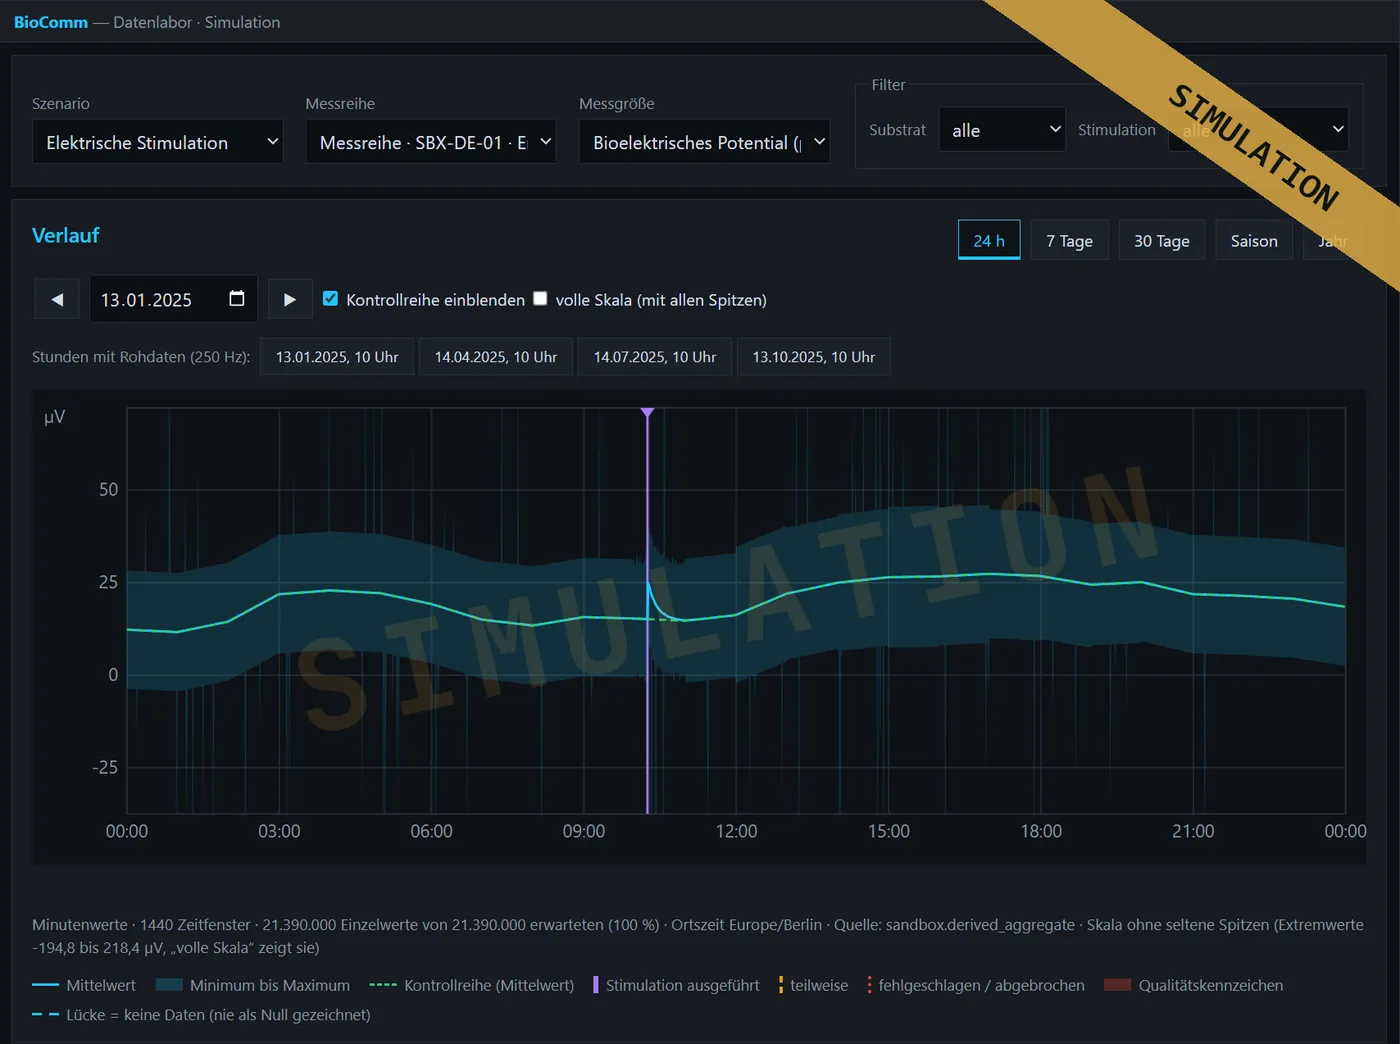
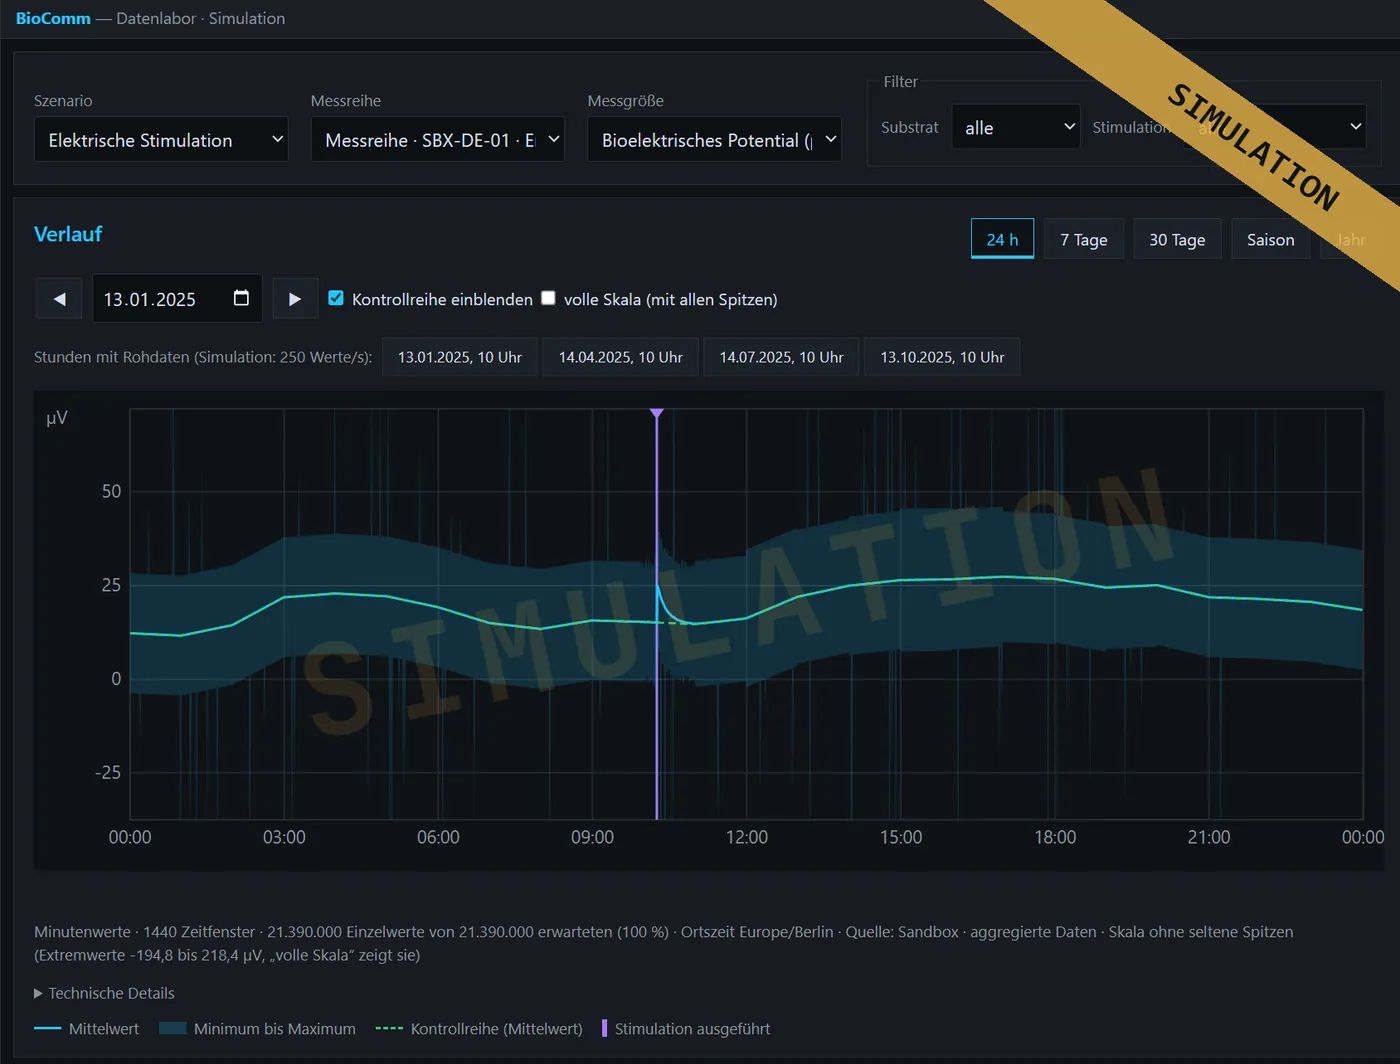
Datenlabor: Review-Punkte (250 Hz als Simulationswert, Quelle, Legende)
- 250 Hz ueberall als Simulationsaufloesung gekennzeichnet, mit Hinweis auf
  den Architektur-Zielwert von bis zu 1000 Werten/s je Messkanal
  (Dashboard + Erklaerseite, 5 Sprachen)
- sichtbare Quelle "Sandbox · aggregierte Daten"/"Rohdaten"; Tabellennamen,
  Kodierung, Kompression und Kalibrierung unter "Technische Details"
  (Roh-API liefert dafuer die Herkunft aus dem Messkanal mit)
- Legende zeigt nur, was im Diagramm vorkommt (Kontrollreihe nur wenn
  eingeblendet, Stimulationszustaende, Qualitaet, Luecken)
- Fix: [hidden] gewann nicht gegen display:flex (Legende, Rohdatenzeile,
  Ereignistabelle auf dem Handy)
- Vorschaubild neu aufgenommen

diff --git a/openmyconet_server/app/static/datenlabor.js b/openmyconet_server/app/static/datenlabor.js
@@ -400,7 +400,9 @@
     var raster = RASTER[res.aufloesung];
     var alle = P.concat(K);
     $('dl-meta').textContent = '';
+    $('dl-technik').textContent = '';
     if (!P.length) {
+      legende({});
       box.textContent = '';
       var leer = document.createElement('p');
       leer.className = 'dl-leer-chart';
@@ -467,14 +469,37 @@
     }
     ablesen(f, P, K, res, tz);
 
+    var zustaende = {};
+    res.stimulationen.forEach(function (s) {
+      var t = s.start || s.versuch || s.geplant;
+      if (t === null || t < zr[0] || t > zr[1]) return;
+      zustaende[s.zustand === 'EXECUTED' ? 'ok' : (s.zustand === 'PARTIAL' ? 'teil' : 'fehl')] = true;
+    });
+    legende({
+      mittel: true, band: true, kontrolle: K.length > 0, ok: zustaende.ok, teil: zustaende.teil, fehl: zustaende.fehl,
+      qual: res.qualitaet.length > 0,
+      luecke: abschnitte(P, raster, tf).length > 1
+    });
+    $('dl-technik').textContent = 'Tabelle sandbox.derived_aggregate · Auflösung ' + res.aufloesung +
+      (res.aufloesung === '1d' ? ' (zur Anzeige aus 1h verdichtet)' : '') + ' · Messreihe ' + r.code +
+      ' · Messgröße ' + res.kanal + ' · Ereignisse aus sandbox.stimulation und sandbox.quality_annotation' +
+      (K.length ? ' · Kontrollreihe ' + (kontrollReihe() || {}).code : '');
+
     var n = P.reduce(function (a, p) { return a + p[5]; }, 0);
     var nErw = P.reduce(function (a, p) { return a + (p[6] || 0); }, 0);
     var aufl = { '1min': 'Minutenwerte', '1h': 'Stundenwerte', '1d': 'Tageswerte (aus Stundenwerten)' }[res.aufloesung];
     $('dl-meta').textContent = aufl + ' · ' + P.length + ' Zeitfenster · ' + zahl(n, 0) + ' Einzelwerte' +
       (nErw ? ' von ' + zahl(nErw, 0) + ' erwarteten (' + zahl(n / nErw * 100, 1) + ' %)' : '') +
-      ' · Ortszeit ' + tz + ' · Quelle: sandbox.derived_aggregate' +
+      ' · Ortszeit ' + tz + ' · Quelle: Sandbox · aggregierte Daten' +
       (sk.gekappt ? ' · Skala ohne seltene Spitzen (Extremwerte ' + zahl(sk.echtMin, 1) + ' bis ' + zahl(sk.echtMax, 1) + ' ' +
         res.einheit + ', „volle Skala“ zeigt sie)' : '');
+  }
+
+  // Legende: nur zeigen, was im Diagramm gerade tatsaechlich vorkommt
+  function legende(sichtbar) {
+    document.querySelectorAll('[data-legende]').forEach(function (li) {
+      li.hidden = !sichtbar[li.getAttribute('data-legende')];
+    });
   }
 
   // Maus/Tastatur: naechsten Punkt ablesen
@@ -594,6 +619,7 @@
         'während der stündlichen Leitfähigkeitsmessung (volle Stunde + 35 s) pausiert die Aufzeichnung planmäßig.';
       box.appendChild(leer);
       $('dl-roh-meta').textContent = '';
+      $('dl-roh-technik').textContent = '';
       return;
     }
     var werte = S.concat(K).map(function (s) { return s[1]; });
@@ -607,9 +633,15 @@
       el('circle', { cx: f.sx(s[0]), cy: f.sy(s[1]), r: 2, class: 'dl-saett' }, f.ebenen.oben);
     });
     var saett = S.filter(function (s) { return s[3]; }).length;
-    $('dl-roh-meta').textContent = S.length + ' Abtastwerte (' + res.rate_hz + ' Hz) · Sample-Index ' + S[0][2] + ' bis ' + S[S.length - 1][2] +
+    $('dl-roh-meta').textContent = S.length + ' Abtastwerte (Simulation: ' + res.rate_hz + ' pro Sekunde)' +
       (saett ? ' · ' + saett + ' Werte in ADC-Sättigung (rot)' : '') + (K.length ? ' · gestrichelt: Kontrollreihe' : '') +
-      ' · umgerechnet: Zählwert × LSB ÷ Verstärkung (aus der Kanal-Kalibrierung)';
+      ' · Quelle: Sandbox · Rohdaten, in µV umgerechnet';
+    var q = res.quelle || {};
+    $('dl-roh-technik').textContent = 'Tabelle sandbox.sample_block · Sample-Index ' + S[0][2] + ' bis ' + S[S.length - 1][2] +
+      (q.kodierung ? ' · Kodierung ' + q.kodierung : '') + (q.kompression ? ' · Kompression ' + q.kompression : '') +
+      (q.adc ? ' · ' + q.adc : '') + (q.lsb_uv ? ' · LSB ' + zahl(q.lsb_uv, 4) + ' µV' : '') +
+      (q.gain ? ' · Verstärkung ' + zahl(q.gain, 0) + ' (' + q.gain_quelle + ')' : '') +
+      ' · Umrechnung: Zählwert × LSB ÷ Verstärkung';
   }
 
   // ------------------------------------------- Ansicht in der Adresse ---

diff --git a/openmyconet_server/app/templates/datenlabor.html b/openmyconet_server/app/templates/datenlabor.html
@@ -89,7 +89,7 @@
                 <label class="dl-check"><input type="checkbox" id="dl-vollskala"> volle Skala (mit allen Spitzen)</label>
             </div>
             <div class="dl-zeile" id="dl-rohstunden-zeile">
-                <span class="label">Stunden mit Rohdaten (250 Hz):</span>
+                <span class="label">Stunden mit Rohdaten (Simulation: 250 Werte/s):</span>
                 <span id="dl-rohstunden"></span>
             </div>
             <p id="dl-saison-hinweis" class="label" hidden></p>
@@ -97,15 +97,16 @@
             <div class="dl-chart" id="dl-chart"></div>
             <p id="dl-ablesen" class="dl-ablesen" aria-live="polite"></p>
             <p id="dl-meta" class="label"></p>
+            <details class="dl-technik"><summary>Technische Details</summary><p id="dl-technik" class="label"></p></details>
             <ul class="dl-legende" aria-label="Legende">
-                <li><span class="dl-l dl-l-mittel"></span>Mittelwert</li>
-                <li><span class="dl-l dl-l-band"></span>Minimum bis Maximum</li>
-                <li><span class="dl-l dl-l-kontrolle"></span>Kontrollreihe (Mittelwert)</li>
-                <li><span class="dl-l dl-l-stim-ok"></span>Stimulation ausgeführt</li>
-                <li><span class="dl-l dl-l-stim-teil"></span>teilweise</li>
-                <li><span class="dl-l dl-l-stim-fehl"></span>fehlgeschlagen / abgebrochen</li>
-                <li><span class="dl-l dl-l-qual"></span>Qualitätskennzeichen</li>
-                <li><span class="dl-l dl-l-luecke"></span>Lücke = keine Daten (nie als Null gezeichnet)</li>
+                <li data-legende="mittel"><span class="dl-l dl-l-mittel"></span>Mittelwert</li>
+                <li data-legende="band"><span class="dl-l dl-l-band"></span>Minimum bis Maximum</li>
+                <li data-legende="kontrolle" hidden><span class="dl-l dl-l-kontrolle"></span>Kontrollreihe (Mittelwert)</li>
+                <li data-legende="ok" hidden><span class="dl-l dl-l-stim-ok"></span>Stimulation ausgeführt</li>
+                <li data-legende="teil" hidden><span class="dl-l dl-l-stim-teil"></span>Stimulation teilweise ausgeführt</li>
+                <li data-legende="fehl" hidden><span class="dl-l dl-l-stim-fehl"></span>Stimulation fehlgeschlagen / abgebrochen</li>
+                <li data-legende="qual" hidden><span class="dl-l dl-l-qual"></span>Qualitätskennzeichen</li>
+                <li data-legende="luecke" hidden><span class="dl-l dl-l-luecke"></span>Lücke = keine Daten (nie als Null gezeichnet)</li>
             </ul>
         </section>
 
@@ -120,8 +121,9 @@
 
         <section class="dl-panel" id="dl-roh" aria-labelledby="dl-roh-titel">
             <h2 id="dl-roh-titel" class="dl-h2-klein">Rohdaten-Ausschnitt</h2>
-            <p class="label">Einzelne Abtastwerte (250 pro Sekunde) aus den gespeicherten Rohdatenblöcken,
-               beim Abruf mit der Kalibrierung des Messkanals in µV umgerechnet.
+            <p class="label">Einzelne Abtastwerte aus den gespeicherten Rohdatenblöcken, beim Abruf mit der
+               Kalibrierung des Messkanals in µV umgerechnet. Die Simulation zeichnet 250 Werte pro Sekunde auf;
+               die Datenarchitektur ist für bis zu 1000 Werte pro Sekunde je Messkanal ausgelegt.
                Wähle oben eine Rohdatenstunde oder in der Ereignisliste „Rohdaten ansehen“.</p>
             <div class="dl-zeile">
                 <button type="button" id="dl-roh-zurueck" aria-label="10 Sekunden früher">◀ 10 s</button>
@@ -130,6 +132,7 @@
             </div>
             <div class="dl-chart dl-chart-roh" id="dl-roh-chart"></div>
             <p id="dl-roh-meta" class="label"></p>
+            <details class="dl-technik"><summary>Technische Details</summary><p id="dl-roh-technik" class="label"></p></details>
         </section>
         </div>
     </div>

diff --git a/openmyconet_server/app/static/datenlabor.css b/openmyconet_server/app/static/datenlabor.css
@@ -17,6 +17,8 @@ body.dl-breit {
     max-width: 1140px; background: var(--s-bg); color: var(--s-text);
     font-family: 'Lora', Georgia, serif; line-height: 1.6;
 }
+/* hidden muss gegen display:flex/inline-flex der Seitenregeln gewinnen */
+body.dl-breit [hidden] { display: none !important; }
 body.dl-breit nav { font-family: 'JetBrains Mono', monospace; font-size: 0.78rem; letter-spacing: 0.04em; border-bottom: 1px solid var(--s-linie); padding-bottom: 12px; }
 body.dl-breit a { color: var(--s-akzent); text-decoration: none; }
 body.dl-breit a:hover { text-decoration: underline; }
@@ -150,3 +152,9 @@ body.dl-breit a:focus-visible, .dl-info summary:focus-visible { outline: 2px sol
     .dl-roh-zeit { min-width: 0; }
     #dl-ereignisse { display: block; overflow-x: auto; }
 }
+
+/* Technische Details (Tabellennamen, Kodierung) fuer Neugierige, zugeklappt */
+.dl-technik { margin: 2px 0 6px; font-size: 0.85em; }
+.dl-technik summary { cursor: pointer; color: var(--w-leise); }
+.dl-technik summary:hover { color: var(--w-cyan); }
+.dl-technik p { margin: 6px 0 0; font-family: 'JetBrains Mono', monospace; font-size: 0.92em; word-break: break-word; }

diff --git a/openmyconet_server/app/templates/site/biocomm-datenlabor.html b/openmyconet_server/app/templates/site/biocomm-datenlabor.html
@@ -45,7 +45,7 @@
       <a href="{{ live('dashboard/login') }}" class="btn btn-amber" data-i18n="bdl_cta_login">{{ t('bdl_cta_login') }}</a>
     </div>
     <figure class="vorschau">
-      <img src="{{ asset('datenlabor_vorschau.webp') }}" width="1400" height="1044" alt="{{ t('bdl_hero_alt') }}" data-i18n-alt="bdl_hero_alt">
+      <img src="{{ asset('datenlabor_vorschau.webp') }}" width="1400" height="1064" alt="{{ t('bdl_hero_alt') }}" data-i18n-alt="bdl_hero_alt">
       <figcaption data-i18n="bdl_hero_caption">{{ t('bdl_hero_caption') }}</figcaption>
     </figure>
   </div>

diff --git a/openmyconet_server/omn/datenlabor.py b/openmyconet_server/omn/datenlabor.py
@@ -279,7 +279,7 @@ def api_roh(nutzer):
     bis = von + timedelta(seconds=dauer)
     bloecke = db.session.execute(text("""
         SELECT sb.time_anchor, sb.sample_rate_hz, sb.sample_count, sb.first_sample_index, sb.value_encoding,
-               sb.compression, sb.payload_inline, mc.gain, mc.calibration
+               sb.compression, sb.payload_inline, mc.gain, mc.calibration, mc.gain_source
           FROM sandbox.sample_block sb
           JOIN sandbox.measurement_channel mc ON mc.id = sb.measurement_channel_id
           JOIN sandbox.acquisition_run r ON r.id = mc.acquisition_run_id
@@ -287,12 +287,14 @@ def api_roh(nutzer):
            AND sb.time_anchor < :bis
            AND sb.time_anchor + make_interval(secs => (sb.sample_count / sb.sample_rate_hz)::float8) > :von
          ORDER BY sb.time_anchor"""), {'s': series_id, 'von': von, 'bis': bis}).all()
-    samples = []
-    for anker, rate, n, erster, enc, komp, payload, gain, kalib in bloecke:
+    samples, quelle = [], {}
+    for anker, rate, n, erster, enc, komp, payload, gain, kalib, gain_quelle in bloecke:
         if enc != 'int16le' or not kalib or 'lsb_uv' not in kalib or not gain:
             continue
         werte = struct.unpack(f'<{n}h', _entpacken(bytes(payload), komp))
         faktor = float(kalib['lsb_uv']) / float(gain)
+        quelle = {'kodierung': enc, 'kompression': komp, 'adc': kalib.get('adc'),
+                  'lsb_uv': float(kalib['lsb_uv']), 'gain': float(gain), 'gain_quelle': gain_quelle}
         rate = float(rate)
         a = max(0, int((von - anker).total_seconds() * rate))
         b = min(n, int((bis - anker).total_seconds() * rate) + 1)
@@ -300,5 +302,6 @@ def api_roh(nutzer):
         for i in range(a, b):
             samples.append([round(t0 + i * 1000 / rate, 1), round(werte[i] * faktor, 3), erster + i,
                             1 if abs(werte[i]) >= 32767 else 0])
-    return _antwort({'reihe': series_id, 'einheit': 'µV', 'rate_hz': 250,
+    return _antwort({'reihe': series_id, 'einheit': 'µV', 'rate_hz': int(rate) if bloecke else None,
+                     'quelle': quelle,
                      'felder': ['t_ms', 'wert', 'sample_index', 'saettigung'], 'samples': samples})

diff --git a/openmyconet_server/tests/test_datenlabor.py b/openmyconet_server/tests/test_datenlabor.py
@@ -194,6 +194,9 @@ def test_rohdaten_kalibriert(labor):
     assert j['is_simulated'] is True and j['einheit'] == 'µV'
     s = j['samples']
     assert len(s) in (2500, 2501)
+    # Herkunft der Umrechnung kommt aus dem Messkanal, nicht aus Konstanten
+    assert j['rate_hz'] == 250
+    assert j['quelle']['lsb_uv'] == 7.8125 and j['quelle']['gain'] == 100 and j['quelle']['gain_quelle'] == 'MANUAL'
     idx = [x[2] for x in s]
     assert idx == sorted(idx) and idx[-1] - idx[0] == len(s) - 1
     # Umrechnung Zaehlwert * 7,8125 uV / Verstaerkung 100 -> Vielfache von 0,078125
